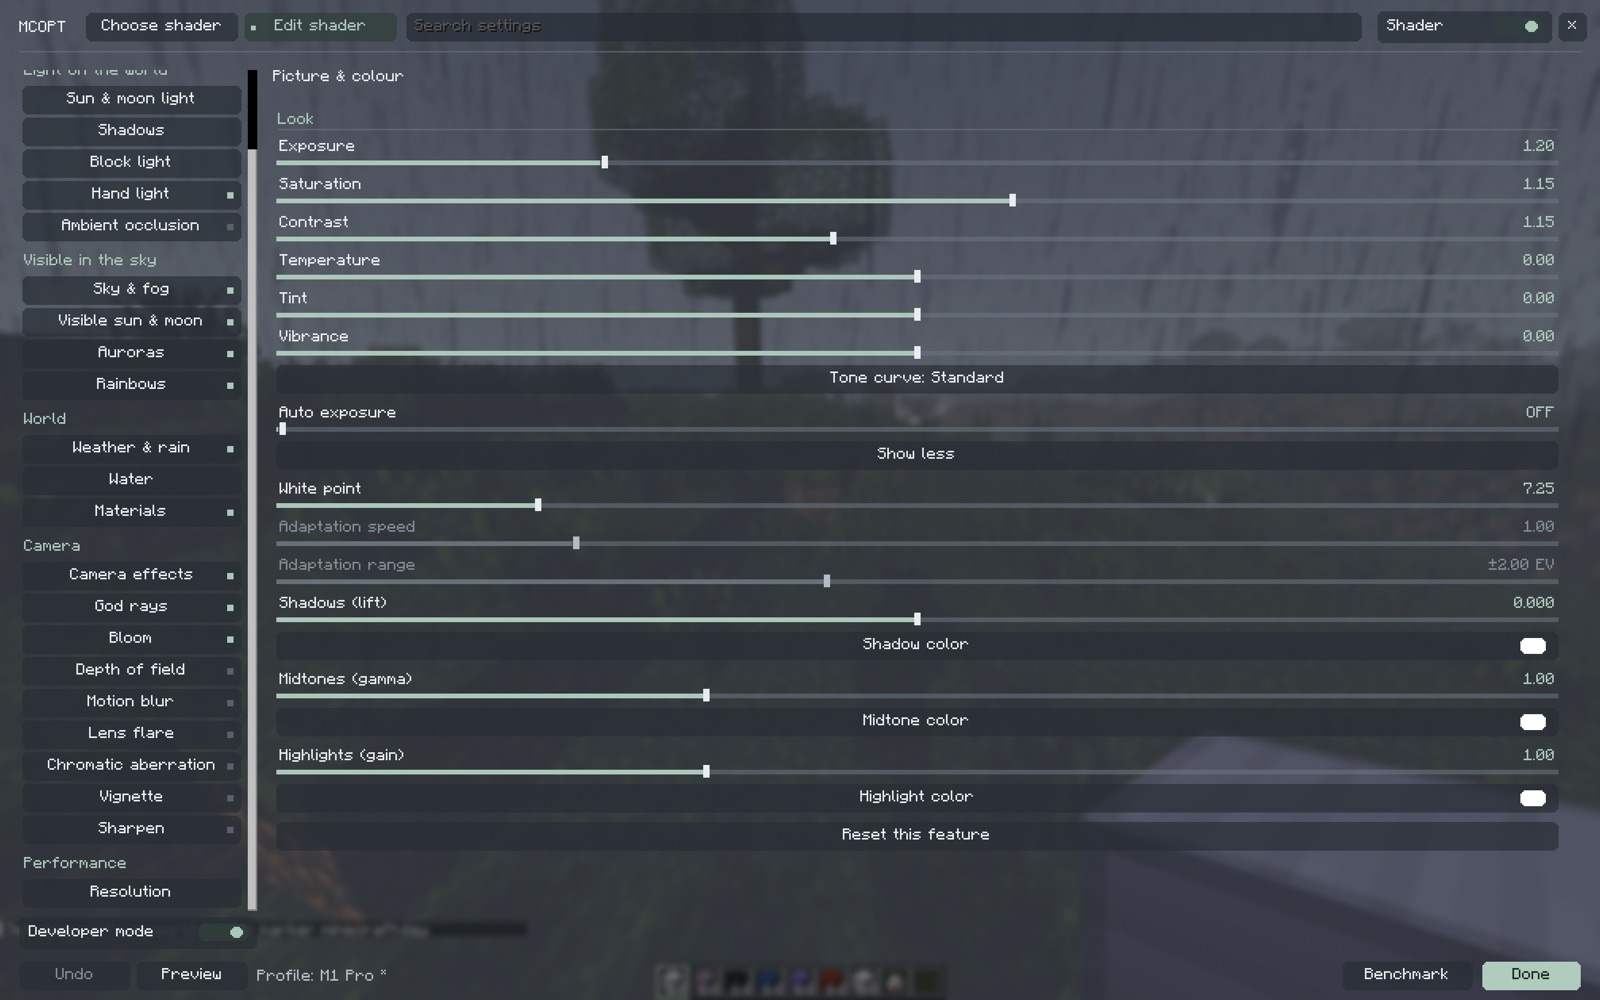
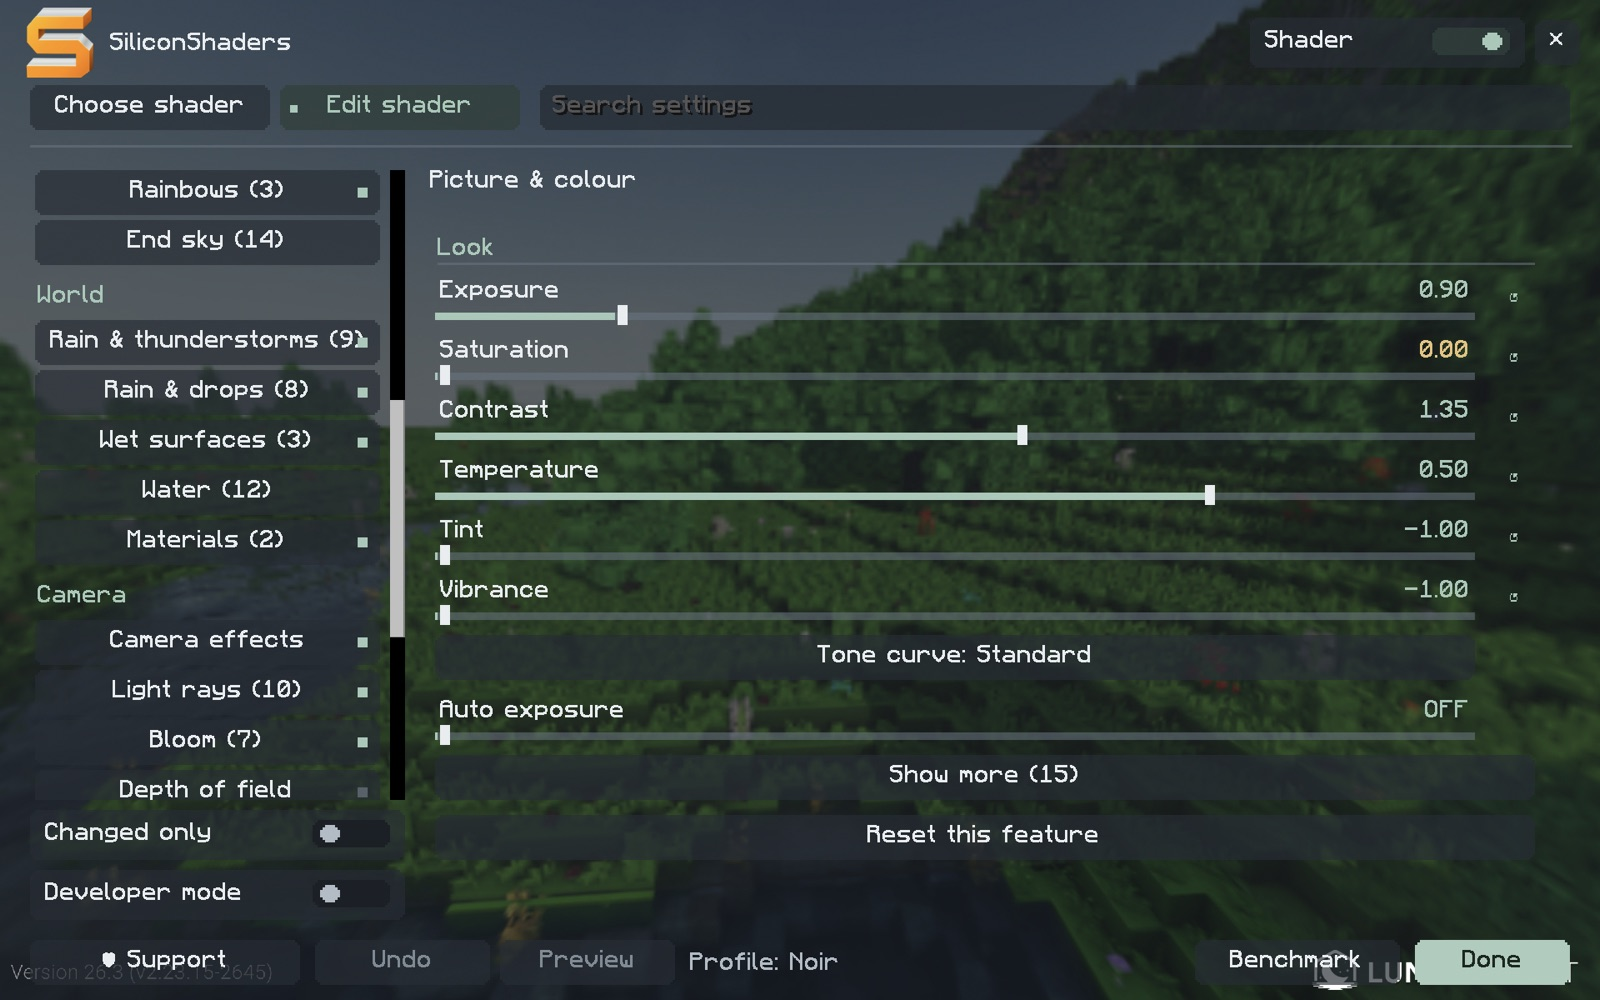
Replace the menu screenshots with the SiliconShaders menu

diff --git a/README.md b/README.md
@@ -45,7 +45,7 @@ SiliconShaders is based on [mcopt](https://github.com/noahdunnagan/mcopt) by Noa
   </tr>
   <tr>
     <td><img src=".github/images/rain-reflection.jpg" alt="Rain with reflections on a glossy surface"></td>
-    <td><img src=".github/images/menu-shader-packs.jpg" alt="Shader profiles and quality presets"></td>
+    <td><img src=".github/images/menu-shader-packs.jpg" alt="Graphics menu: built-in profiles Standard and Noir, and quality levels"></td>
   </tr>
   <tr>
     <td><img src=".github/images/menu-picture.jpg" alt="Graphics menu: picture and colour settings"></td>
